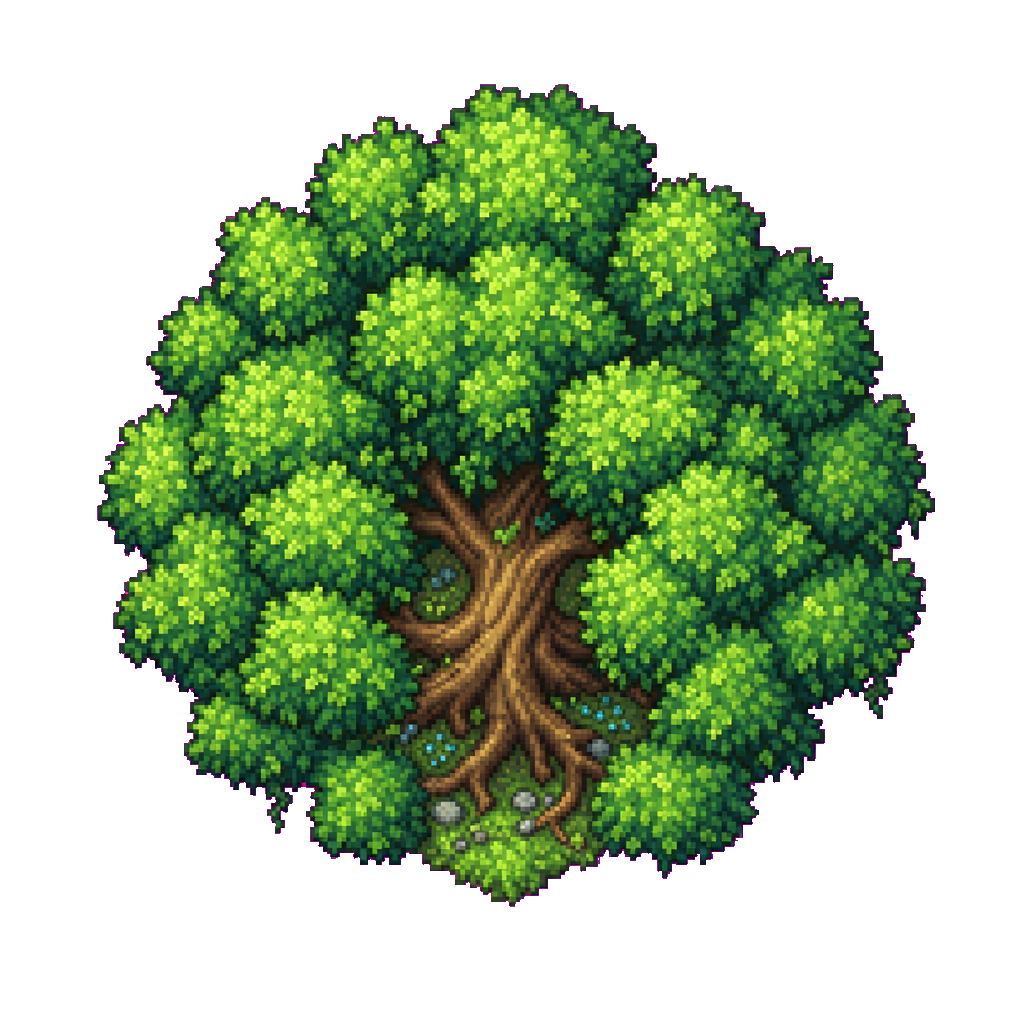
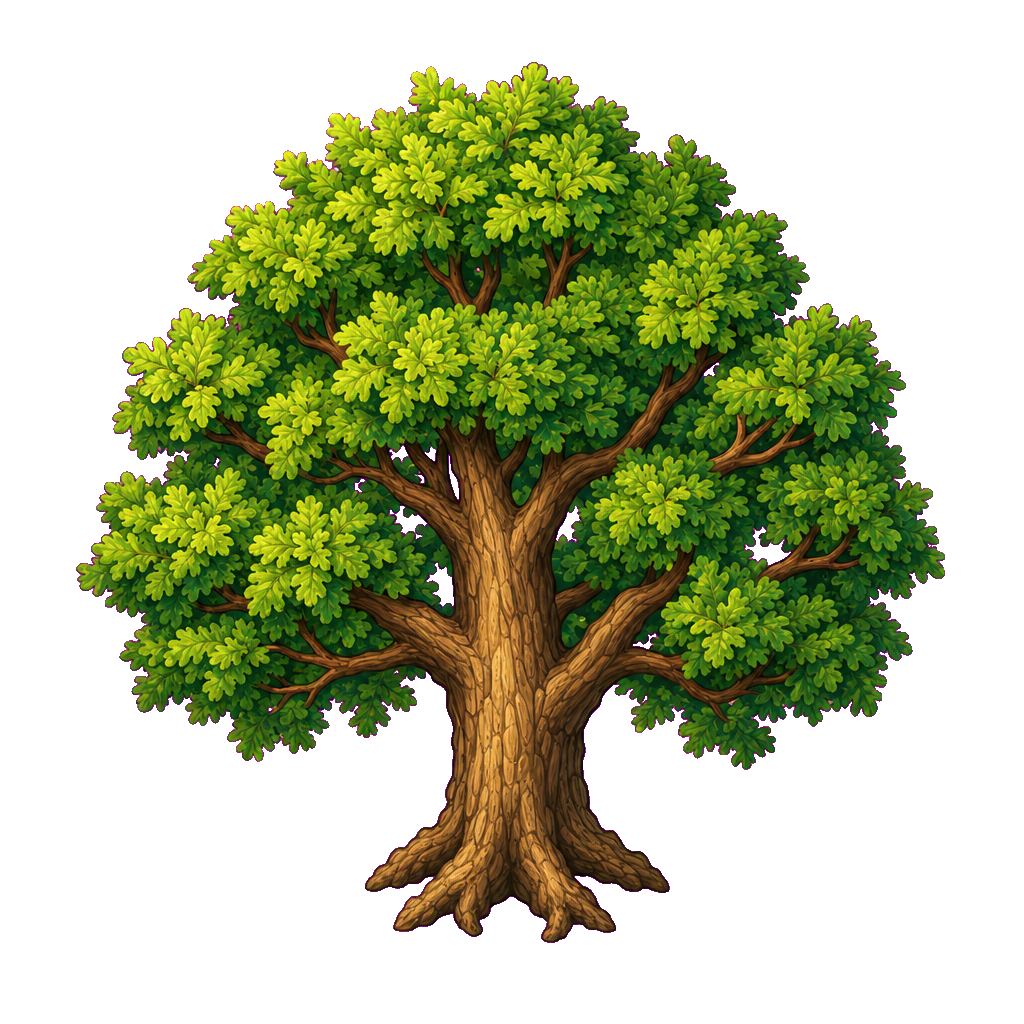
feat：扩充场景与敌人素材
重做树木与樱花树素材，并补充灌木、巨石、竹丛和神龛等场景物体，让地图环境更丰富自然。同步扩展敌人图集池与障碍生成配置，减少重复感。

diff --git a/sword-world/game.js b/sword-world/game.js
@@ -60,10 +60,18 @@
     swordLegendary: { path: "assets/sword-legendary.png", scale: 0.08, anchorY: 0.55 },
     tree: { path: "assets/tree.png", scale: 0.175, anchorY: 0.72 },
     sakura: { path: "assets/sakura.png", scale: 0.175, anchorY: 0.72 },
+    bush: { path: "assets/bush.png", scale: 0.13, anchorY: 0.72 },
+    boulder: { path: "assets/boulder.png", scale: 0.135, anchorY: 0.74 },
+    bamboo: { path: "assets/bamboo.png", scale: 0.145, anchorY: 0.76 },
+    shrine: { path: "assets/shrine.png", scale: 0.14, anchorY: 0.76 },
     crystal: { path: "assets/crystal.png", scale: 0.145, anchorY: 0.7 },
     lantern: { path: "assets/lantern.png", scale: 0.118, anchorY: 0.74 },
     stump: { path: "assets/stump.png", scale: 0.118, anchorY: 0.72 },
     ruin: { path: "assets/ruin.png", scale: 0.135, anchorY: 0.74 },
+    enemyVioletSheet: { path: "assets/enemy-violet-sheet.png", scale: 0.195, anchorY: 0.74, frameWidth: 256, frameHeight: 256, frames: 8 },
+    enemyCinderSheet: { path: "assets/enemy-cinder-sheet.png", scale: 0.195, anchorY: 0.74, frameWidth: 256, frameHeight: 256, frames: 8 },
+    enemyJadeSheet: { path: "assets/enemy-jade-sheet.png", scale: 0.195, anchorY: 0.74, frameWidth: 256, frameHeight: 256, frames: 8 },
+    enemyMoonSheet: { path: "assets/enemy-moon-sheet.png", scale: 0.195, anchorY: 0.74, frameWidth: 256, frameHeight: 256, frames: 8 },
     floorGrass: { path: "assets/floor-grass.png", scale: 1, anchorY: 0.5 },
     floorStone: { path: "assets/floor-stone.png", scale: 1, anchorY: 0.5 },
     floorMeadow: { path: "assets/floor-meadow.png", scale: 1, anchorY: 0.5 },
@@ -163,6 +171,10 @@
   const obstacleColliderConfig = {
     tree: { shape: "circle", offsetX: 0, offsetY: 18, radius: 24 },
     sakura: { shape: "circle", offsetX: 0, offsetY: 18, radius: 24 },
+    bush: { shape: "circle", offsetX: 0, offsetY: 12, radius: 18 },
+    boulder: { shape: "circle", offsetX: 0, offsetY: 10, radius: 20 },
+    bamboo: { shape: "rect", offsetX: 0, offsetY: 8, width: 24, height: 34 },
+    shrine: { shape: "rect", offsetX: 0, offsetY: 8, width: 30, height: 28 },
     stump: { shape: "rect", offsetX: 0, offsetY: 2, width: 34, height: 20 },
     crystal: { shape: "rect", offsetX: 0, offsetY: -2, width: 24, height: 46 },
     lantern: { shape: "rect", offsetX: 0, offsetY: 7, width: 20, height: 30 },
@@ -288,7 +300,7 @@
   }
 
   function createEnemy(x, y) {
-    const enemyBases = ["enemyRose", "enemyTeal", "enemyGold", "enemyMint"];
+    const enemyBases = ["enemyRose", "enemyTeal", "enemyGold", "enemyMint", "enemyViolet", "enemyCinder", "enemyJade", "enemyMoon"];
     const assetBase = enemyBases[nextEnemyId % enemyBases.length];
     const enemy = {
       id: nextEnemyId++,
@@ -1011,7 +1023,7 @@
       if (distFromOrigin < 160) {
         continue;
       }
-      const type = pick(["tree", "sakura", "stump", "crystal", "lantern", "ruin"], cx * 17 + i, cy * 13 + i);
+      const type = pick(["tree", "sakura", "bush", "boulder", "bamboo", "shrine", "stump", "crystal", "lantern", "ruin"], cx * 17 + i, cy * 13 + i);
       const collider = obstacleCollider(type);
       chunk.obstacles.push({ x: ox, y: oy, radius: obstacleBroadRadius(collider), type, collider });
     }
@@ -1541,6 +1553,14 @@
       ? "tree"
       : obstacle.type === "sakura"
         ? "sakura"
+        : obstacle.type === "bush"
+          ? "bush"
+          : obstacle.type === "boulder"
+            ? "boulder"
+            : obstacle.type === "bamboo"
+              ? "bamboo"
+              : obstacle.type === "shrine"
+                ? "shrine"
         : obstacle.type === "crystal"
           ? "crystal"
           : obstacle.type === "lantern"